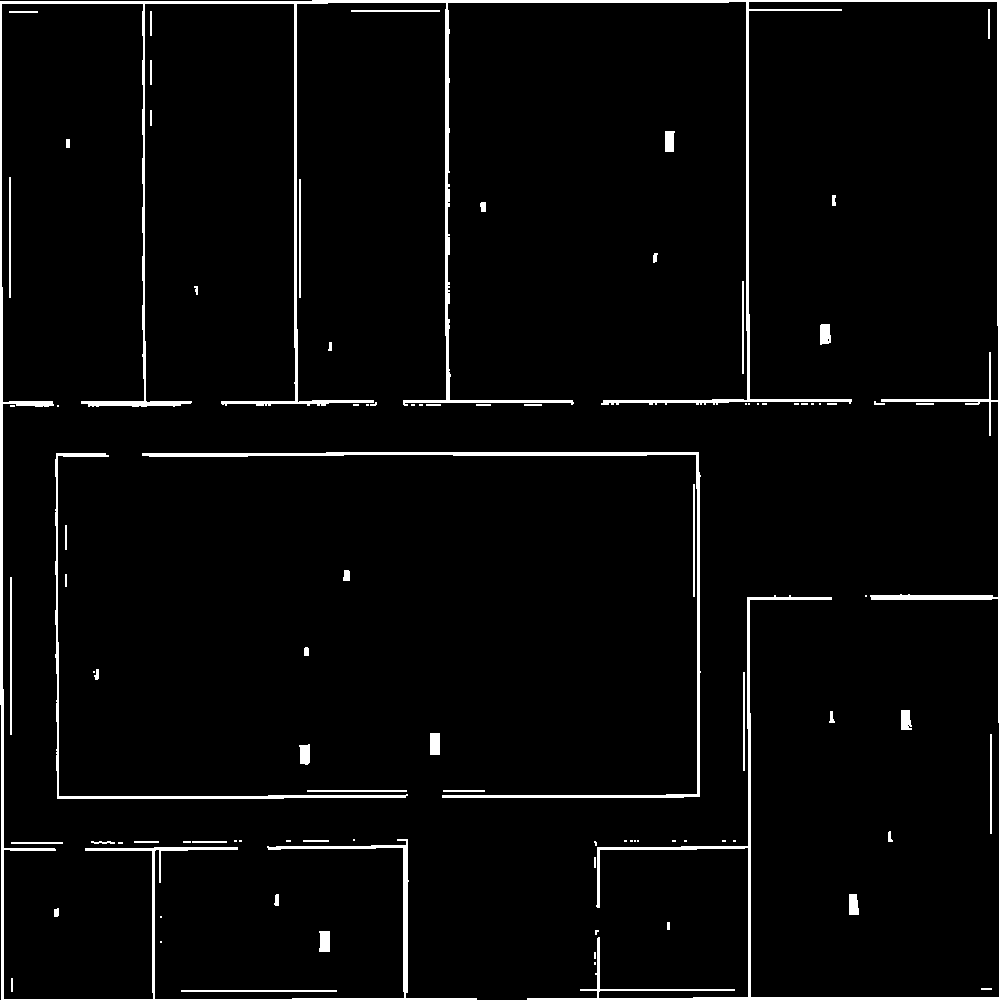
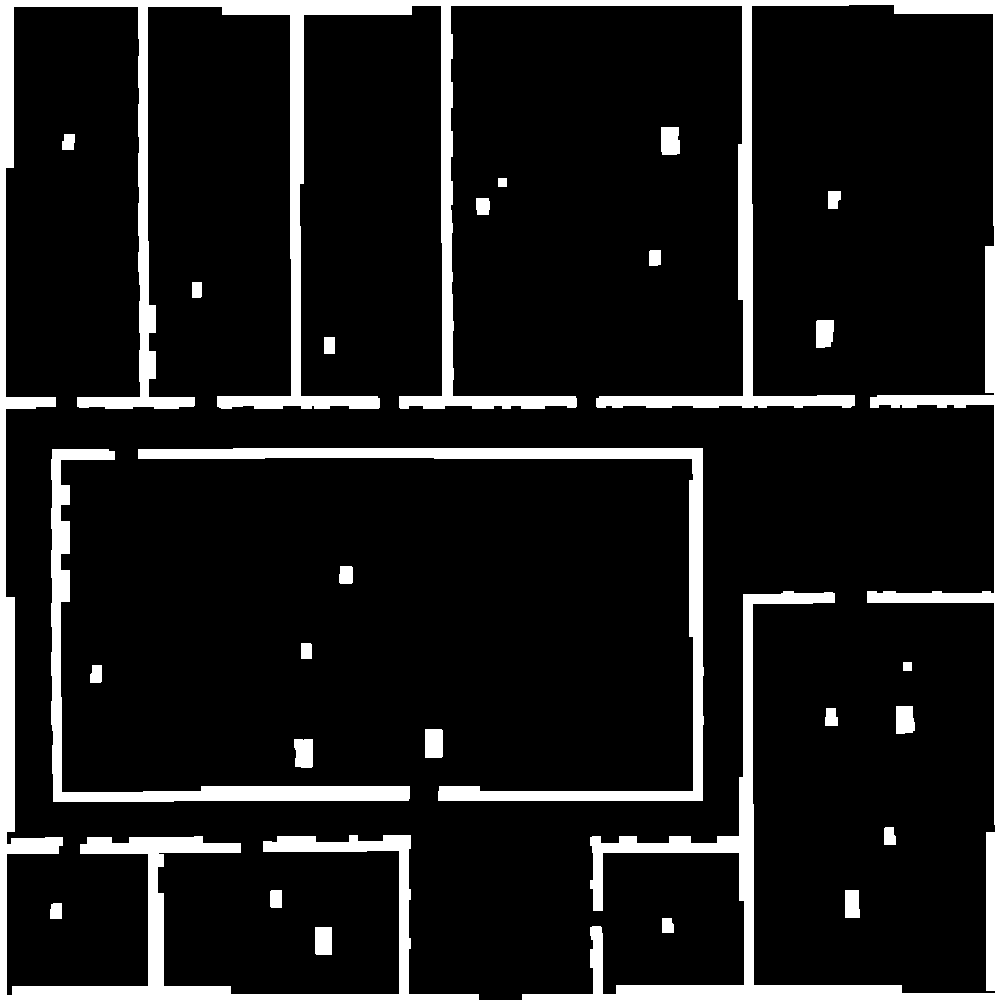
black out ground vehicle from map and dilate more

diff --git a/integratedRun.py b/integratedRun.py
@@ -78,29 +78,29 @@ def orientGroundAgent():
 def convertToPxlCoord(vrepCoord):
     return [math.ceil(500 - (vrepCoord[1]*(1000/100))), math.ceil(500 + (vrepCoord[0]*(1000/100)))]
 
-# def AerialAgentNavigationThread():
-#     global OBJS_clustered, obs_map
-#     np.savetxt('OBJS_clustered.txt', OBJS_clustered)
-#     import AerialAgent_arenasweep
-#
-# def InputOutputThread():
-#     global OBJS_clustered, obs_map
-#     file = 'OBJS_clustered.txt'
-#     while True:
-#         f = open(file, 'r')
-#         c = np.array(f.read().split())
-#         f.close()
-#         c = c.astype(np.float)
-#         OBJS_clustered = c.reshape((-1, 2))
-#
-#         if (len(OBJS_clustered)>0):
-#             #Read the obs_map.png file
-#             flag_obs_map_available = True
-#
-#             print("Thread Output")
-#             print("Map is available and Objects Cluster is")
-#             print(OBJS_clustered)
-#         time.sleep(1)
+def AerialAgentNavigationThread():
+    global OBJS_clustered, obs_map
+    np.savetxt('OBJS_clustered.txt', OBJS_clustered)
+    import AerialAgent_arenasweep
+
+def InputOutputThread():
+    global OBJS_clustered, obs_map
+    file = 'OBJS_clustered.txt'
+    while True:
+        f = open(file, 'r')
+        c = np.array(f.read().split())
+        f.close()
+        c = c.astype(np.float)
+        OBJS_clustered = c.reshape((-1, 2))
+
+        if (len(OBJS_clustered)>0):
+            #Read the obs_map.png file
+            flag_obs_map_available = True
+
+            print("Thread Output")
+            print("Map is available and Objects Cluster is")
+            print(OBJS_clustered)
+        time.sleep(1)
 
 vrep.simxFinish(-1) # just in case, close all opened connections
 clientID = vrep.simxStart('127.0.0.1',19997,True,True,5000,5) # Connect to V-REP
@@ -130,12 +130,12 @@ if clientID != -1:
     #Threaded Function to get the GPS value of the Ground agent position
     thread2 = Thread(target=getGroundAgentPosition)
     thread2.start()
-    # #Threaded Function to get the GPS value of the Ground agent position
-    # thread3 = Thread(target=AerialAgentNavigationThread)
-    # thread3.start()
-    # #Threaded Function to get the GPS value of the Ground agent position
-    # thread4 = Thread(target=InputOutputThread)
-    # thread4.start()
+    #Threaded Function to get the GPS value of the Ground agent position
+    thread3 = Thread(target=AerialAgentNavigationThread)
+    thread3.start()
+    #Threaded Function to get the GPS value of the Ground agent position
+    thread4 = Thread(target=InputOutputThread)
+    thread4.start()
 
     #file = open('OBJS_easy.txt', 'r')
     #Lines = file.readlines()

diff --git a/AerialAgent_arenasweep.py b/AerialAgent_arenasweep.py
@@ -137,6 +137,10 @@ if clientID != -1:
         if (k>len(wpt)-1):
             break
 
+        (ret, GV_handle) = vrep.simxGetObjectHandle(clientID, 'youBot', vrep.simx_opmode_oneshot)
+        (ret, GV_pos) = vrep.simxGetObjectPosition(clientID, GV_handle, -1, vrep.simx_opmode_oneshot)
+        GV_pos = np.asarray(GV_pos)
+
         (ret, quad_handle) = vrep.simxGetObjectHandle(clientID,'Quadricopter_base',vrep.simx_opmode_oneshot)
         (ret, target_handle) = vrep.simxGetObjectHandle(clientID, 'Quadricopter_target', vrep.simx_opmode_oneshot)
         (ret, camera_handle) = vrep.simxGetObjectHandle(clientID, 'FPV_Camera', vrep.simx_opmode_oneshot_wait)
@@ -218,11 +222,17 @@ if clientID != -1:
                     # # if (cam_start_x>0 and cam_start_y>0 and cam_end_x<1000 and cam_end_y<1000):
                     # obs_map[cam_start_y:cam_end_y,cam_start_x:cam_end_x] = cv2.resize(obs, (cam_len,cam_len), interpolation = cv2.INTER_AREA)
 
+                    u_GV = int(500 + GV_pos[0]*(1000 / 100))
+                    v_GV = int(500 - GV_pos[1]*(1000 / 100))
+                    print(u_GV)
+                    print(v_GV)
+                    cv2.circle(obs_map, (u_GV, v_GV), 20, 0, -1)
+
                     # Erosion Dilation
-                    # kernel = np.ones((2,2), np.uint8)
-                    # obs_map = cv2.erode(obs_map, kernel, iterations=1)
-                    kernel = np.ones((2,2), np.uint8)
-                    obs_map = cv2.dilate(obs_map, kernel, iterations=1)
+                    kernel = np.ones((1,1), np.uint8)
+                    obs_map = cv2.erode(obs_map, kernel, iterations=1)
+                    kernel = np.ones((5,5), np.uint8)
+                    obs_map = cv2.dilate(obs_map, kernel, iterations=2)
 
                     cv2.imwrite('obs_map.png', obs_map)
 
